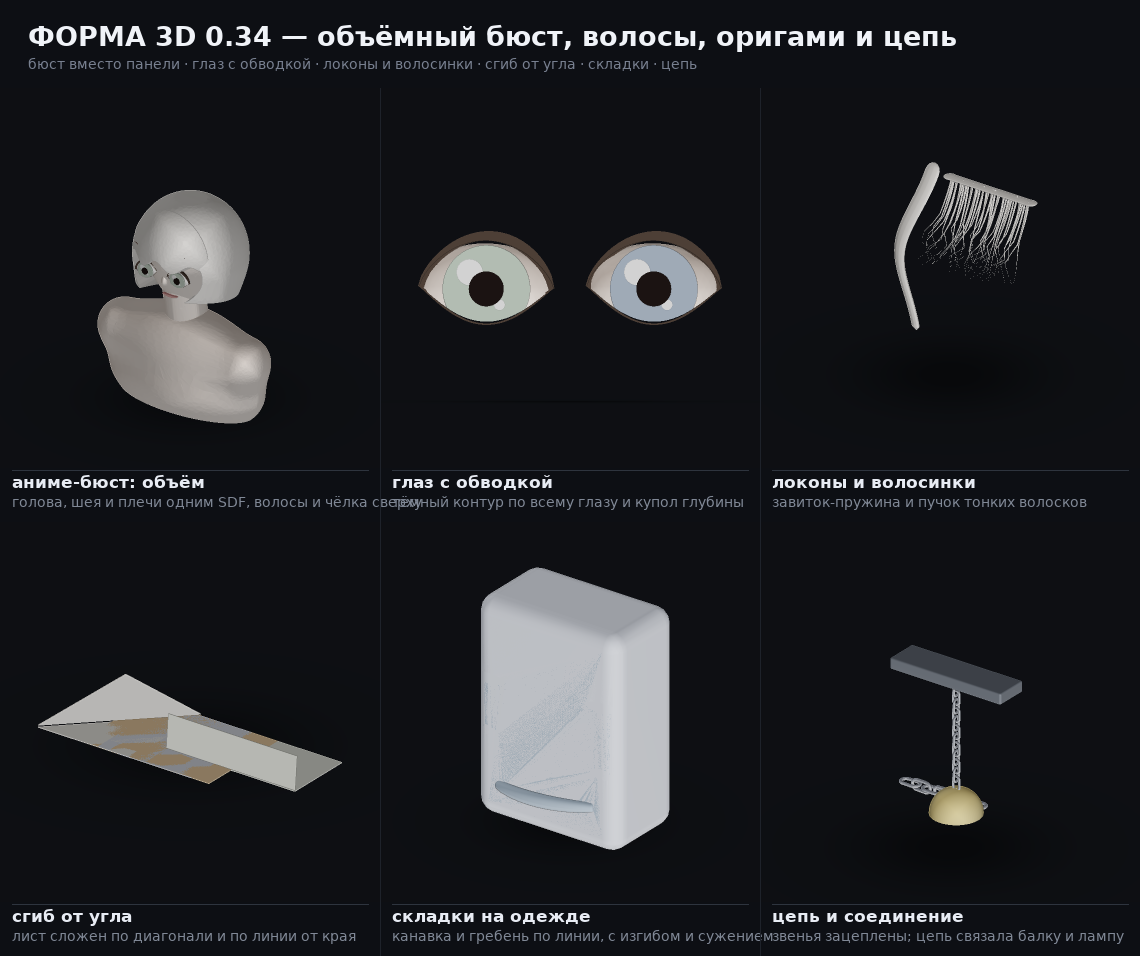
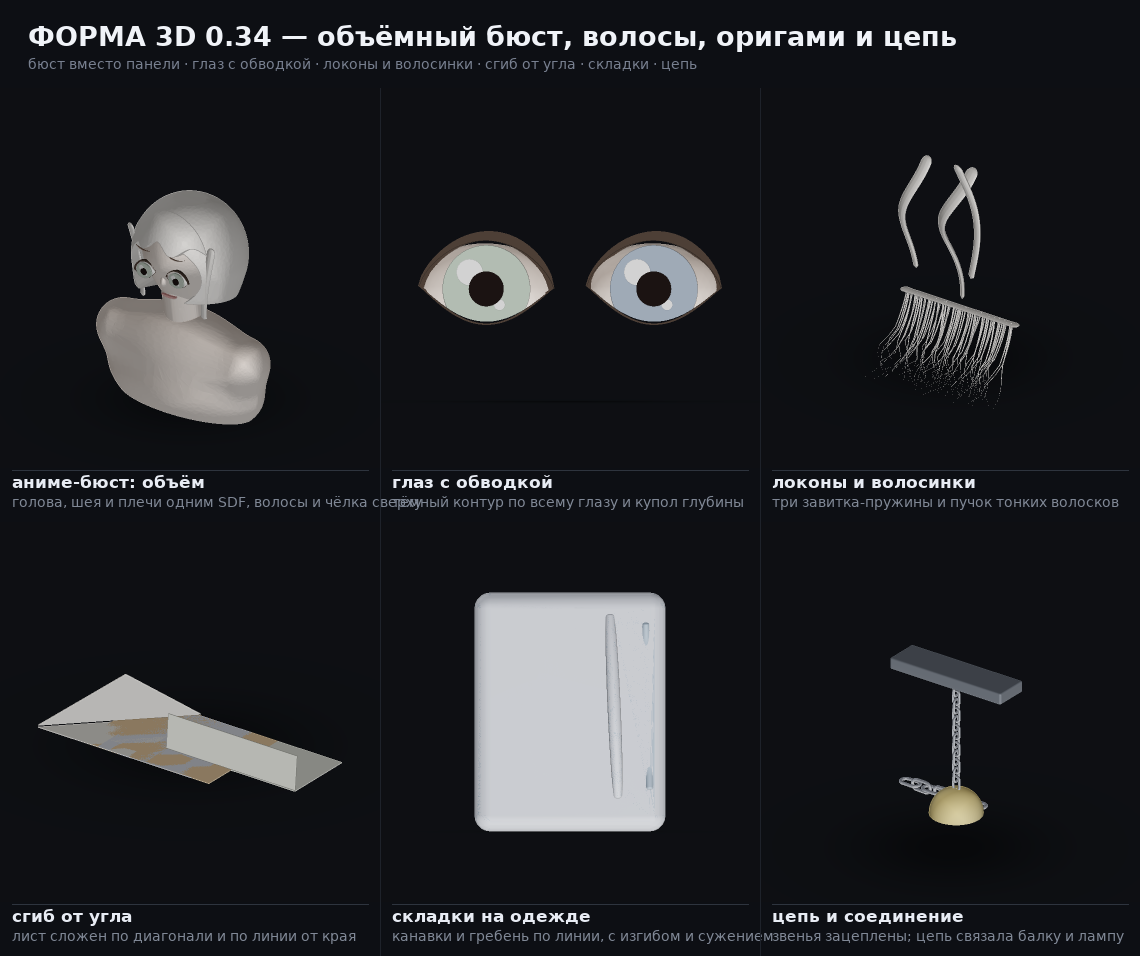
0.34: доводка бюста (брови, чёлка, пряди у щёк, серьги) и плакат с локонами и складками

diff --git a/forma/docs/make_whatsnew_034.py b/forma/docs/make_whatsnew_034.py
@@ -48,12 +48,17 @@ CASES = [
      "г1 = глаз width=70 height=46 at=[-44,0,60] iris=#8fa48f lash=4 depth=0.55\n"
      "г2 = глаз width=70 height=46 at=[44,0,60] iris=#6f7f96 lash=4 depth=0.9\n"
      "color г1 color=#f4d6c3\ncolor г2 color=#f4d6c3", "front", 1.0, None),
-    ("локоны и волосинки", "завиток-пружина и пучок тонких волосков",
-     "л = локон at=[-48,0,150] length=150 radius=18 turns=0.7 thick=16 thin=6 "
+    ("локоны и волосинки", "три завитка-пружины и пучок тонких волосков",
+     "л1 = локон at=[-80,0,190] length=130 radius=17 turns=0.75 thick=15 thin=6 "
      "dir=[0,0,-1] side=[1,0,0]\n"
-     "в = волосинки from=[10,-30,170] to=[90,-30,170] count=40 length=70 "
-     "thick=1.8 bend=0.7 curl=0.5 dir=[0,-0.3,-1] base=да\n"
-     "color л color=#ece4da\ncolor в color=#ece4da", "iso", 1.0, None),
+     "л2 = локон at=[-40,20,180] length=150 radius=20 turns=0.9 thick=17 thin=6 "
+     "dir=[0,0,-1] side=[1,0,0]\n"
+     "л3 = локон at=[0,-10,200] length=120 radius=14 turns=0.6 thick=13 thin=5 "
+     "dir=[0,0,-1] side=[-1,0,0]\n"
+     "в = волосинки from=[-60,-40,60] to=[80,-40,60] count=60 length=90 "
+     "thick=1.8 bend=0.8 curl=0.5 dir=[0,-0.25,-1] base=да\n"
+     "color л1 color=#ece4da\ncolor л2 color=#ece4da\ncolor л3 color=#ece4da\n"
+     "color в color=#ece4da", "iso", 1.0, None),
     ("сгиб от угла", "лист сложен по диагонали и по линии от края",
      "а = sheet width=110 length=110 thickness=1\n"
      "б = сгиб а at=[0,0,1] dir=45 angle=120\n"
@@ -62,12 +67,13 @@ CASES = [
      "г = сгиб в at=[0,-20,1] dir=0 angle=95 side=-1\n"
      "г = translate [г] offset=[75,0,0]\n"
      "color б color=#f3ecdf\ncolor г color=#dfe3cf", "iso", 1.0, None),
-    ("складки на одежде", "канавка и гребень по линии, с изгибом и сужением",
-     "куртка = box size=[80,46,110] round=8\n"
-     "с1 = складка куртка from=[-36,-23,70] to=[36,-23,74] r=4 mode=канавка bend=6\n"
-     "с2 = складка с1 from=[-34,-23,44] to=[34,-23,40] r=3.6 mode=канавка bend=-8\n"
-     "с3 = складка с2 from=[-26,-23,18] to=[26,-23,22] r=3.2 mode=гребень bend=5\n"
-     "color с3 color=#8aa0b8", "iso", 1.0, None),
+    ("складки на одежде", "канавки и гребень по линии, с изгибом и сужением",
+     "куртка = box size=[96,44,120] round=8\n"
+     "с1 = складка куртка from=[-20,-22,110] to=[-14,-22,16] r=4.2 mode=канавка bend=7\n"
+     "с2 = складка с1 from=[0,-22,112] to=[4,-22,14] r=3.6 mode=канавка bend=-9\n"
+     "с3 = складка с2 from=[20,-22,108] to=[24,-22,18] r=3.2 mode=гребень bend=6\n"
+     "с4 = складка с3 from=[38,-22,104] to=[40,-22,22] r=2.6 mode=гребень bend=-5\n"
+     "color с4 color=#8aa0b8", "front", 1.0, None),
     ("цепь и соединение", "звенья зацеплены; цепь связала балку и лампу",
      "балка = box size=[130,36,12] round=2 at=[0,0,200]\n"
      "лампа = hemisphere radius=26 at=[0,0,60]\n"
